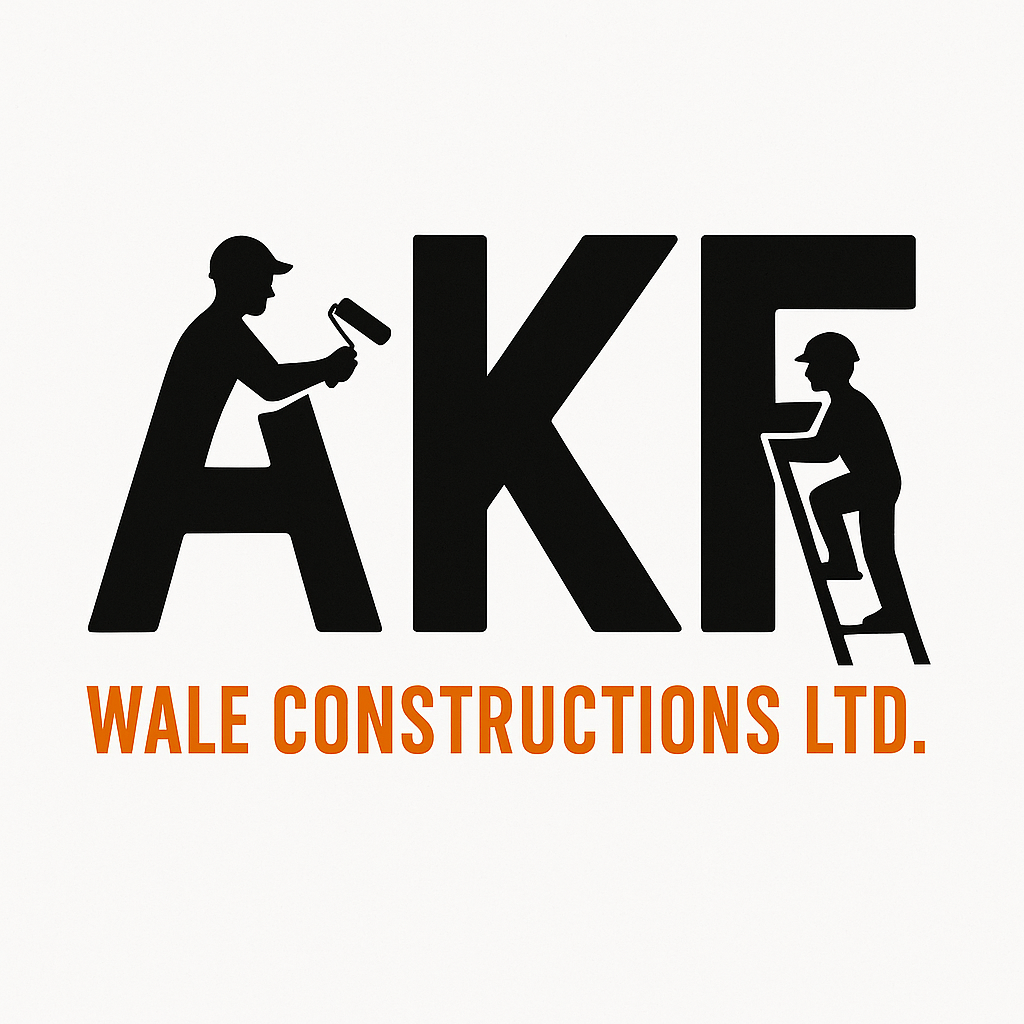
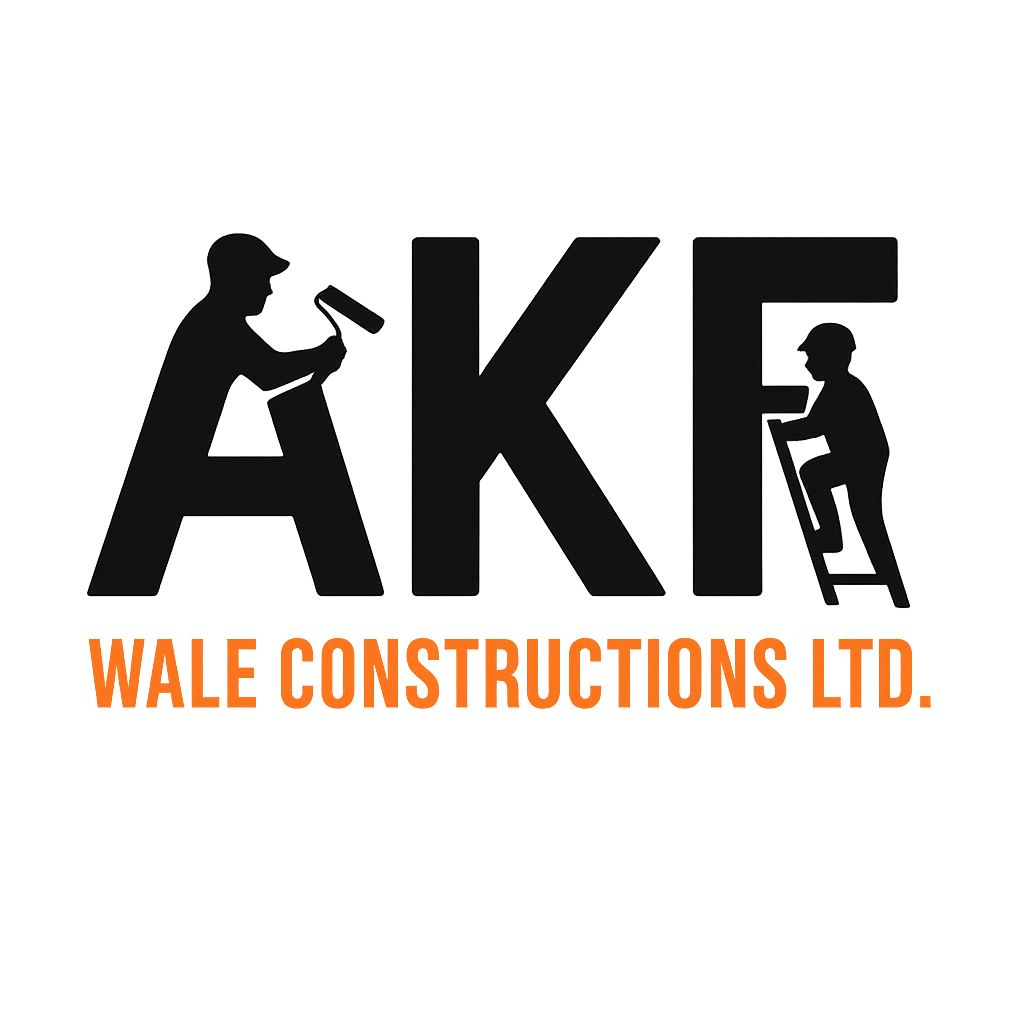
Updated AKF Wale Constructions content and branding

diff --git a/components/HomePage.tsx b/components/HomePage.tsx
@@ -90,9 +90,12 @@ export default function HomePage() {
           <h2 className="mb-12 text-center text-3xl font-semibold md:text-4xl">Our Services</h2>
           <div className="grid gap-8 md:grid-cols-3">
             {[
-              { title: 'Residential', link: '/services/residential', img: 'residential.jpg' },
-              { title: 'Commercial', link: '/services/commercial', img: 'commercial.jpg' },
-              { title: 'Custom Furniture', link: '/services/custom-furniture', img: 'custom.jpg' },
+              { title: 'Tiles', link: '/services/tiles', img: 'tiles.jpg' },
+              { title: 'Drywall', link: '/services/drywall', img: 'drywall.jpg' },
+              { title: 'Glass Doors', link: '/services/glassdoors', img: 'glassdoors.jpg' },
+              { title: 'Framing', link: '/services/framing', img: 'framing.jpg' },
+              { title: 'Roofing', link: '/services/roofing', img: 'roofing.jpg' },
+              { title: 'Kitchen Cabinets', link: '/services/kitchencabinets', img: 'kitchencabinets.jpg' },
             ].map(({ title, link, img }) => (
               <a
                 key={title}
@@ -156,7 +159,8 @@ export default function HomePage() {
         <div className="mx-auto max-w-4xl px-6 text-center">
           <h2 className="mb-4 text-3xl font-semibold">100% Satisfaction Promise</h2>
           <p className="text-lg">
-            If any aspect of our workmanship fails within 2 years,&nbsp;<strong>we’ll fix it free of charge—no questions asked.</strong>
+            If any aspect of our workmanship fails within 2 years,&nbsp;
+            <strong>we’ll fix it free of charge—no questions asked.</strong>
           </p>
         </div>
       </section>
@@ -164,9 +168,8 @@ export default function HomePage() {
       {/* ───────────── NEW FOOTER ───────────── */}
       <footer className="bg-zinc-900 text-zinc-200 pt-12">
         <div className="max-w-7xl mx-auto px-6 grid grid-cols-1 md:grid-cols-4 gap-8">
-          {/* Company Info */}
           <div>
-            <img src="/akfwale.png" alt="AKF Wale Constructions Ltd Logo" className="w-40 mb-4 brightness-100" />
+            <img src="/akfwale1.png" alt="AKF Wale Constructions Ltd Logo" className="w-40 mb-4 brightness-100" />
             <h3 className="text-xl font-bold text-white mb-2">AKF Wale Constructions Ltd.</h3>
             <p className="text-sm text-zinc-400">
               Building excellence from blueprint to finish. Specializing in residential and commercial renovations with a passion for quality and precision.
@@ -177,7 +180,6 @@ export default function HomePage() {
             </div>
           </div>
 
-          {/* Service Areas */}
           <div>
             <h4 className="text-lg font-bold mb-3">Service Areas</h4>
             <ul className="space-y-1 text-sm text-zinc-400">
@@ -190,19 +192,17 @@ export default function HomePage() {
             </ul>
           </div>
 
-          {/* Contact Info */}
           <div>
             <h4 className="text-lg font-bold mb-3">Contact Us</h4>
             <ul className="space-y-2 text-sm text-zinc-400">
               <li>📞 <a href="tel:+16047820777" className="underline">+1 (604) 782-0777</a></li>
-              <li>✉ <a href="mailto:mandeepbassi0011@gmail.com" className="underline">info@highendconstructions.ca</a></li>
+              <li>✉ <a href="mailto:mandeepbassi0011@gmail.com" className="underline">mandeepbassi0011@gmail.com</a></li>
               <li className="mt-2">
-                Unit 105 · 8028 128 Street<br/>Surrey, BC V3W 4E9
+                Unit 105 · 8028 128 Street<br />Surrey, BC V3W 4E9
               </li>
             </ul>
           </div>
 
-          {/* Social Links */}
           <div className="text-center md:text-left">
             <h4 className="text-lg font-bold mb-3">Follow Us</h4>
             <div className="flex justify-center md:justify-start gap-4 mb-4">

diff --git a/pages/services/custom-furniture.tsx b/pages/services/custom-furniture.tsx
@@ -28,7 +28,7 @@ export default function CustomFurniture() {
       {/* ───────────── INTRO SECTION ───────────── */}
       <section className="py-16 px-6 md:px-16 lg:px-24 text-center">
         <p className="max-w-5xl mx-auto text-lg text-gray-700 mb-6">
-          At <span className="text-red-700 font-bold">High End Constructions Ltd.</span>, we craft unique, custom-designed features to elevate both residential and commercial spaces. From handcrafted furniture to immersive entertainment zones, our skilled artisans bring your vision to life with unmatched craftsmanship and detail.
+          At <span className="text-red-700 font-bold">AKF Wale Constructions Ltd.</span>, we craft unique, custom-designed features to elevate both residential and commercial spaces. From handcrafted furniture to immersive entertainment zones, our skilled artisans bring your vision to life with unmatched craftsmanship and detail.
         </p>
 
         <div className="grid gap-8 md:grid-cols-2 text-left mt-10">
@@ -94,7 +94,7 @@ export default function CustomFurniture() {
       <footer className="bg-zinc-900 text-zinc-200 pt-12">
         <div className="max-w-7xl mx-auto px-6 grid grid-cols-1 md:grid-cols-4 gap-8">
           <div>
-            <img src="/logo.png" alt="High End Constructions Logo" className="w-40 mb-4 brightness-200" />
+            <img src="/akfwale.png" alt="AKF Wale Constructions Logo" className="w-40 mb-4 brightness-200" />
             <h3 className="text-xl font-bold text-white mb-2">High End Constructions Ltd.</h3>
             <p className="text-sm text-zinc-400">
               Building excellence from blueprint to finish. Specializing in residential and commercial renovations with a passion for quality and precision.
@@ -144,7 +144,7 @@ export default function CustomFurniture() {
 
         <div className="mt-8 bg-red-700 py-4">
           <p className="text-center text-sm text-zinc-100">
-            © 2025 High End Constructions Ltd. All rights reserved. Privacy Policy | Web Design by X!phos
+            © 2025 AKF Wale Constructions Ltd. All rights reserved. Privacy Policy | Web Design by X!phos
           </p>
         </div>
       </footer>

diff --git a/components/navbar.jsx b/components/navbar.jsx
@@ -28,7 +28,7 @@ export default function Navbar() {
       {/* Logo */}
       <div className="flex items-center ml-6">
         <img 
-          src="/akfwale.png" 
+          src="/akfwale1.png" 
           alt="AKF Wale Constructions Ltd Logo" 
           className="w-40 h-40 mt-2"
         />
